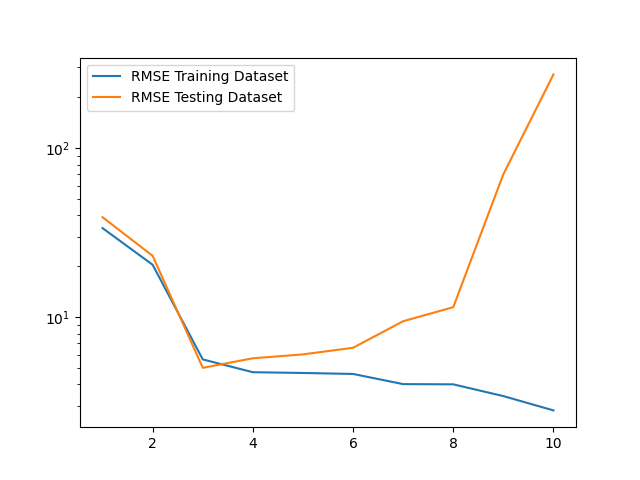
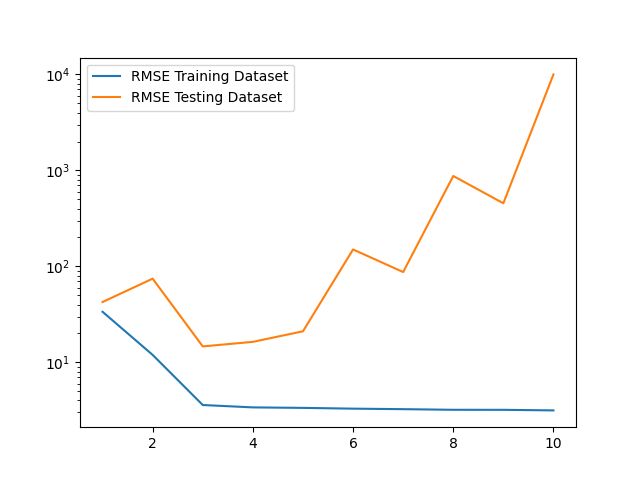
Fixing 3.1

diff --git a/machineLearning.py b/machineLearning.py
@@ -6,6 +6,7 @@ import matplotlib.pyplot as plt
 import pandas
 import seaborn
 
+from sklearn import preprocessing
 from sklearn.model_selection import KFold
 from sklearn.ensemble import RandomForestClassifier
 from sklearn.neural_network import MLPClassifier
@@ -345,8 +346,11 @@ for i in featureNames:
     print(controlHivDataset[i].mode())
 
 # normalise the dataset
-for i in featureNames:
-    normalisedHivDataset=(hivDataset[i]-hivDataset[i].min())/(hivDataset[i].max()-hivDataset[i].min())
+# for i in featureNames:
+#     normalisedHivDataset=(hivDataset[i]-hivDataset[i].min())/(hivDataset[i].max()-hivDataset[i].min())
+#     hivDataset[i] = normalisedHivDataset[i]
+
+
 
 
 # Section 3.2 Designing algorithms (15%)
@@ -369,9 +373,9 @@ for i in featureNames:
 
 # x are features to be fed into the classifiers
 # y are labels that are to be predicted by the classifiers
-xHivDataset = normalisedHivDataset.values
-xHivDataset = normalisedHivDataset.iloc[: , :-1]
-yHivDataset =  normalisedHivDataset["Participant Condition"].values
+xHivDataset = hivDataset.values
+xHivDataset = hivDataset.iloc[: , :-1]
+yHivDataset =  hivDataset["Participant Condition"].values
 
 xTrainData, xTestData, yTrainData, yTestData = train_test_split(xHivDataset, yHivDataset, train_size = 0.90, test_size = 0.10)
 
@@ -400,7 +404,7 @@ def runForestClassifier(leafSamples):
 
 
 def plotAccuracyFunction(datapoints):
-    plt.plot(range(len(datapoints)), datapoints, 'o-', label='Accuracy MLP')
+    plt.plot([100,200,300,400,500],range(len(datapoints)), datapoints, 'o-', label='Accuracy MLP')
     plt.xlabel("Epochs")
     plt.ylabel("Accuracy")
     plt.legend()
